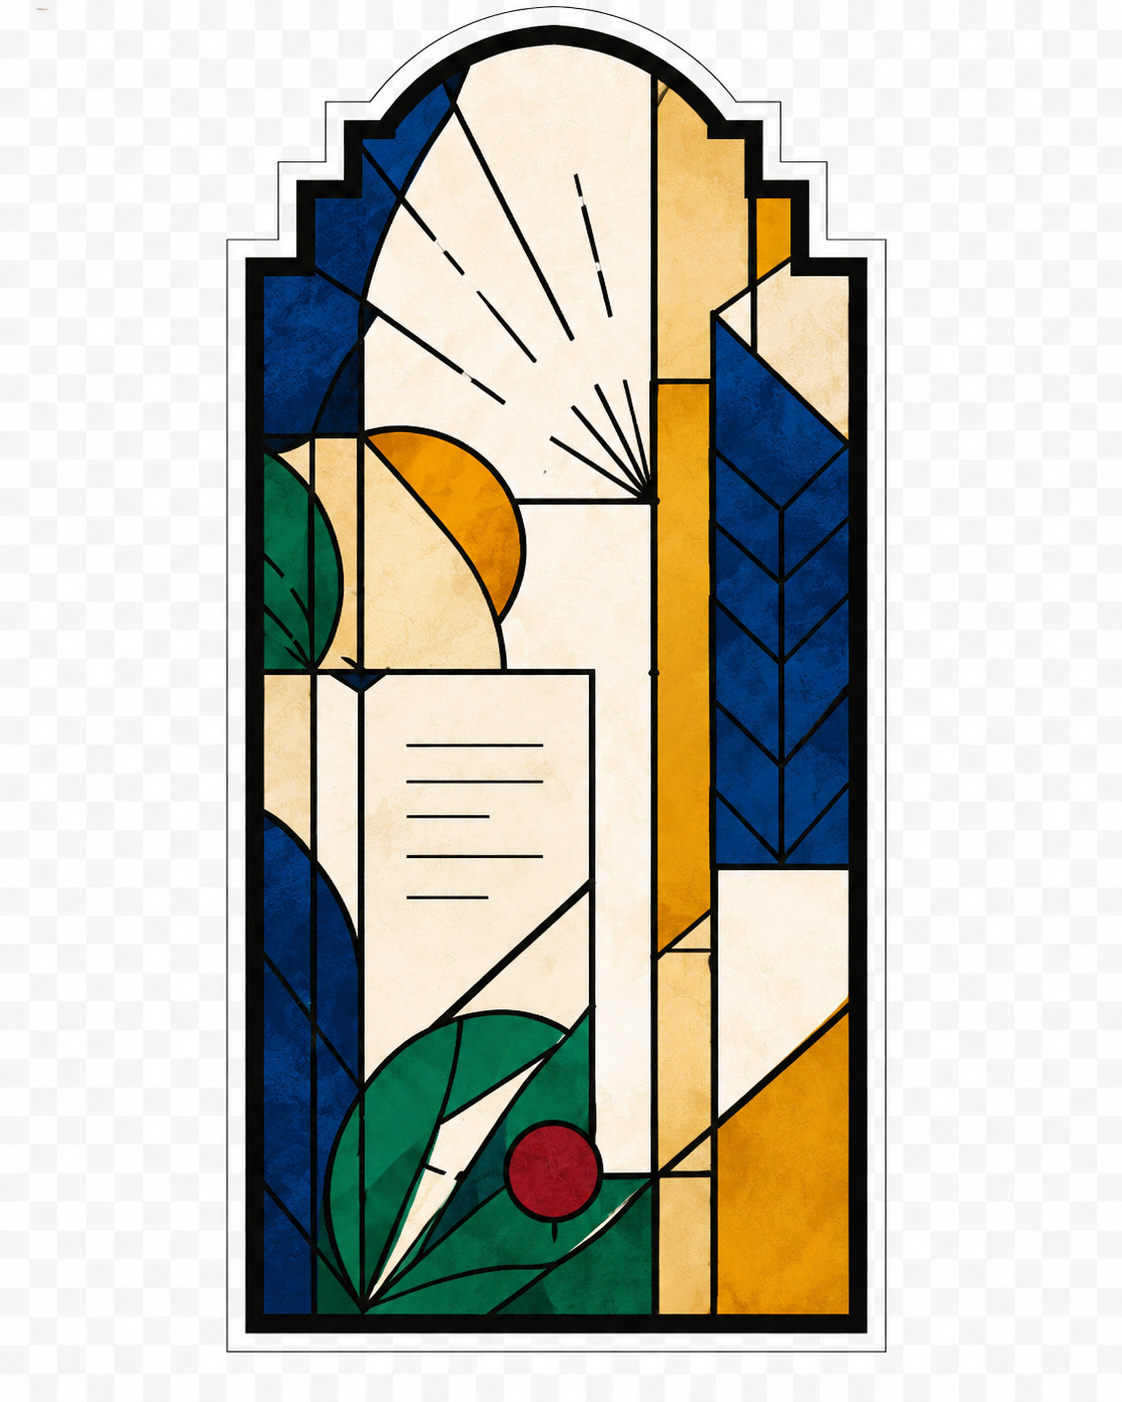
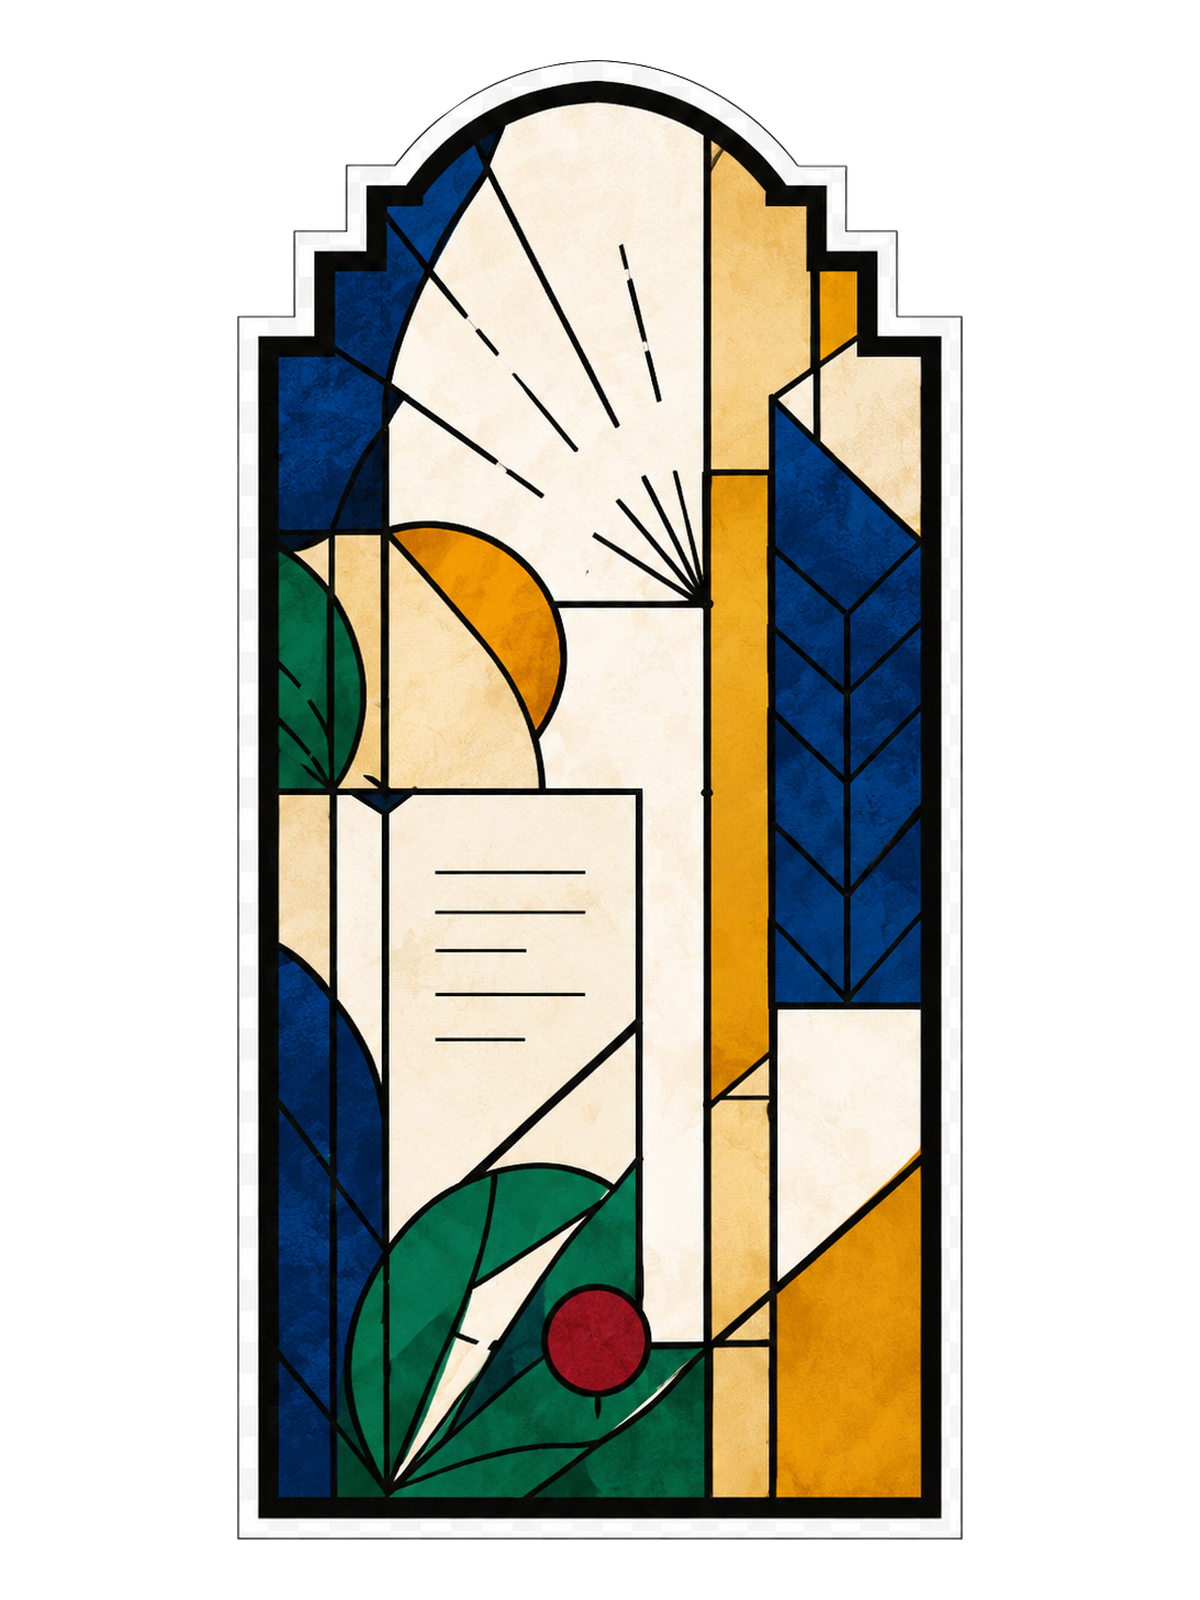
Refresh glass artwork and hero presentation

Changed region(s): [[0.1872, 0.0, 0.8111, 0.9815], [0.4991, 0.1227, 0.5303, 0.184]]

diff --git a/src/lib/visionProducts.ts b/src/lib/visionProducts.ts
@@ -2,8 +2,8 @@ import type { VisionProduct } from "@/lib/types";
 
 /**
  * Hidden future-catalogue taster — dummy data for /vision-catalogue.
- * Most images are intentionally left undefined so components render the
- * CSS placeholder; the two approved glass panels are wired where they fit.
+ * Images are intentionally left undefined so components render the
+ * CSS placeholder.
  * scarcityLabel carries the ruby status language reserved for this page.
  */
 export const visionProducts: VisionProduct[] = [
@@ -18,8 +18,6 @@ export const visionProducts: VisionProduct[] = [
     edition: "Edition of 50",
     scarcityLabel: "First 50",
     provenance: "Set and bound in Ontario, Canada.",
-    image: "/images/glass/vision-panel.png",
-    imageAlt: "Small stained-glass panel for Future Catalogue page.",
   },
   {
     slug: "colophon-print-i",
@@ -32,8 +30,6 @@ export const visionProducts: VisionProduct[] = [
     edition: "Edition of 25",
     scarcityLabel: "12 remaining",
     provenance: "Signed and numbered.",
-    image: "/images/glass/vision-print-panel.png",
-    imageAlt: "Future catalogue print panel crop.",
   },
   {
     slug: "the-quiet-page-deluxe",

diff --git a/src/app/studio/page.tsx b/src/app/studio/page.tsx
@@ -24,7 +24,7 @@ const services = ["Fine-art paper prints", "Small edition proofing", "Artwork do
 export default function StudioPage() {
   return (
     <>
-      <PageHeader title="The Studio" intro="A space for visiting artists, makers, and restorers. Workshops in printmaking, drawing, and book arts. Open sessions for independent work. Conservation and restoration for prints, posters, and works on paper. Fine-art printing services for artists and photographers." image="/images/press/press-index-paper-stack.png" imageAlt="Framed plate of paper and tools." />
+      <PageHeader title="The Studio" intro="A space for visiting artists, makers, and restorers. Workshops in printmaking, drawing, and book arts. Open sessions for independent work. Conservation and restoration for prints, posters, and works on paper. Fine-art printing services for artists and photographers." image="/images/glass/studio-panel.png" imageAlt="Stained-glass panel of a raised hand, arches, and radiating lines." imagePortrait />
 
       <section className={editorial.section}>
         <SectionHeading label="Ways In" />

diff --git a/src/app/future-catalogue/page.tsx b/src/app/future-catalogue/page.tsx
@@ -8,7 +8,7 @@ import styles from "./page.module.css";
 export default function FutureCataloguePage() {
   return (
     <>
-      <PageHeader title="Future Catalogue" intro="A study for editions, prints, books, and objects made with care and intention." note="This is a preview study, not a live catalogue. Availability, details, and prices are placeholders." image="/images/glass/vision-panel.png" imageAlt="Framed stained-glass plate for the future catalogue." />
+      <PageHeader title="Future Catalogue" intro="A study for editions, prints, books, and objects made with care and intention." note="This is a preview study, not a live catalogue. Availability, details, and prices are placeholders." />
       <section className={editorial.section}>
         <div className={editorial.tabs}>{["Editions", "Prints", "Books", "Objects"].map((item) => <span key={item}>{item}</span>)}</div>
         <div className={styles.grid}>

diff --git a/src/app/page.tsx b/src/app/page.tsx
@@ -35,7 +35,7 @@ const features = [
     href: "/studio",
     ctaLabel: "See the programme",
     image: "/images/glass/studio-panel.png",
-    imageAlt: "Small stained-glass panel with a rising sun and radiating lines.",
+    imageAlt: "Small stained-glass panel with a raised hand, arches, and radiating lines.",
   },
 ];
 
@@ -59,7 +59,7 @@ export default function HomePage() {
           </div>
         </div>
         <div className={styles.heroArt}>
-          <FramedPlateImage src="/images/glass/hero-hand-mark.png" alt="Stained-glass panel of a hand, pages, leaves, and a ruby mark." portrait priority />
+          <FramedPlateImage src="/images/glass/hero-hand-mark.png" alt="Stained-glass panel of a hand, pages, leaves, and a ruby mark." portrait priority frameless />
         </div>
       </section>
 

diff --git a/src/components/ui/FramedPlateImage.tsx b/src/components/ui/FramedPlateImage.tsx
@@ -6,6 +6,7 @@ interface FramedPlateImageProps {
   alt: string;
   portrait?: boolean;
   priority?: boolean;
+  frameless?: boolean;
 }
 
 export default function FramedPlateImage({
@@ -13,9 +14,10 @@ export default function FramedPlateImage({
   alt,
   portrait = false,
   priority = false,
+  frameless = false,
 }: FramedPlateImageProps) {
   return (
-    <div className={`${styles.frame} ${portrait ? styles.portrait : ""}`}>
+    <div className={`${styles.frame} ${portrait ? styles.portrait : ""} ${frameless ? styles.frameless : ""}`}>
       {src ? (
         <Image src={src} alt={alt} fill priority={priority} sizes="(max-width: 48rem) 90vw, 42vw" className={styles.image} />
       ) : (

diff --git a/src/components/editorial/PageHeader.tsx b/src/components/editorial/PageHeader.tsx
@@ -28,7 +28,7 @@ export default function PageHeader({
         <p className={styles.pageIntro}>{intro}</p>
         {note ? <p className={styles.note}>{note}</p> : null}
       </div>
-      {image ? <FramedPlateImage src={image} alt={imageAlt} portrait={imagePortrait} priority /> : null}
+      {image ? <FramedPlateImage src={image} alt={imageAlt} portrait={imagePortrait} priority frameless={image.startsWith("/images/glass/")} /> : null}
     </header>
   );
 }

diff --git a/src/components/ui/FramedPlateImage.module.css b/src/components/ui/FramedPlateImage.module.css
@@ -11,9 +11,19 @@
   overflow: hidden;
 }
 
+.frameless {
+  border: 0;
+  padding: 0;
+  background: transparent;
+}
+
 .image {
   object-fit: contain;
   padding: var(--space-2);
+}
+
+.frameless .image {
+  padding: 0;
 }
 
 .portrait .image {

diff --git a/src/components/editorial/editorial.module.css b/src/components/editorial/editorial.module.css
@@ -6,7 +6,7 @@
 .pageHeader {
   display: grid;
   grid-template-columns: minmax(0, 1.25fr) minmax(16rem, 0.75fr);
-  align-items: end;
+  align-items: center;
   gap: var(--space-8);
   border-bottom: var(--border-hairline);
 }
